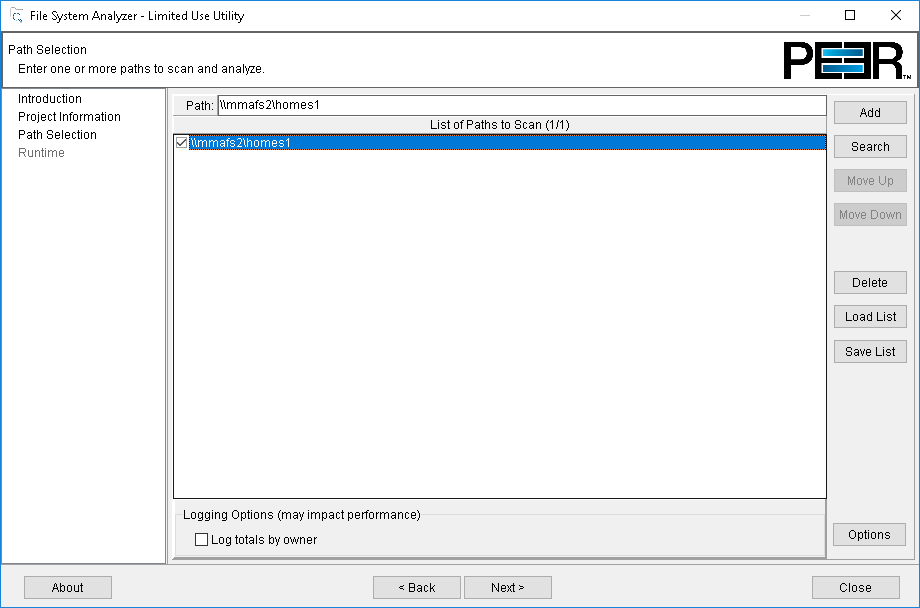
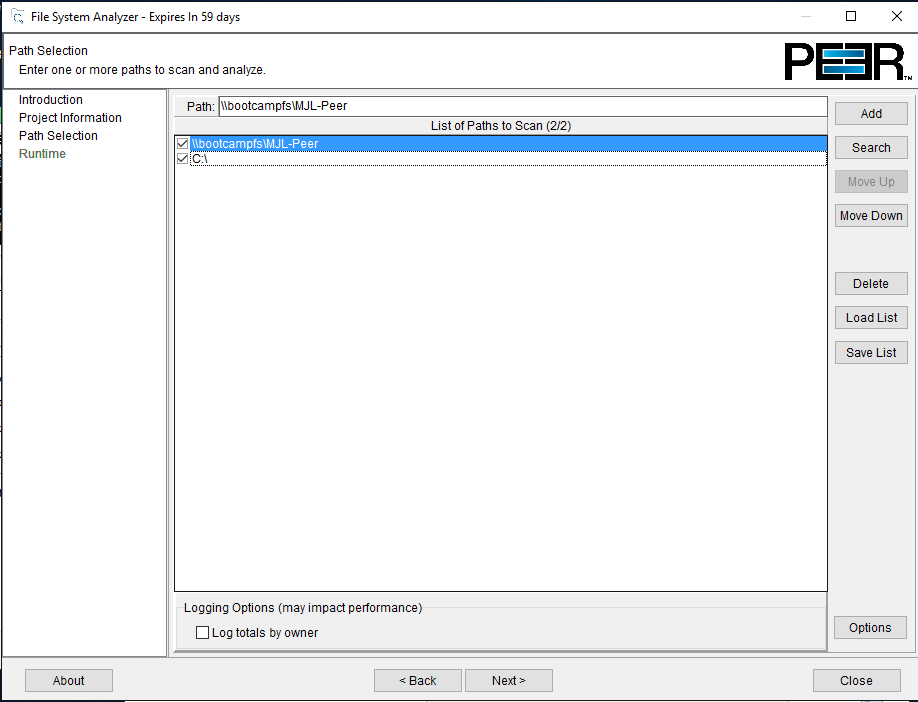
final tune-ups for GTS Americas

Changed region(s): [[0.0, 0.0, 1.0, 1.0]]

diff --git a/peer/peer.rst b/peer/peer.rst
@@ -33,10 +33,19 @@ Key use cases for combining Peer Software with Nutanix include:
 
 Working from left to right, users interact with the SMB shares on the Nutanix Files cluster via a public LAN. When SMB activity occurs on the Files cluster through these shares, the Peer Partner Server (referred to as a Peer Agent) is notified via the File Activity Monitoring API from Files. The Peer Agent accesses the updated content via SMB, and then facilitates the flow of data to one or many remote and/or local file servers.
 
-**In this lab you will configure Peer Global File Service to create an Active-Active file services solution with Nutanix Files.**
+**In this lab you will configure Peer Global File Service to create an Active-Active file services solution with Nutanix Files, replicate content from Nutanix Files to Nutanix Objects, and use our File System Analyzer tool to analyze some sample data.**
+
+When you are done with these three sections, get your lab validated by a member of the Peer Software team. We have a Rocketbook reusable notepad with pen and refresh cloth for you!
+
+.. figure:: images/rocketbook.png
 
 Lab Setup
 +++++++++
+
+   .. note::
+
+    This lab requires the :ref:`windows_tools_vm`.
+    
 
 Files
 .....
@@ -337,10 +346,6 @@ Once a job has been created, it must be started to initiate synchronization and 
 Testing Collaboration
 +++++++++++++++++
 
-   .. note::
-
-    This exercise requires the :ref:`windows_tools_vm`.
-
 The easiest way to verify synchronization is functioning properly is to open separate File Explorer windows for the Nutanix Files and Windows File Server paths.
 
 .. note::
@@ -387,155 +392,6 @@ The easiest way to verify synchronization is functioning properly is to open sep
    .. figure:: images/36.png
 
    **Congratulations!** You have successfully deployed an Active-Active file share replicated across two file servers. Using Peer, this same approach can be leveraged to support file collaboration across sites, migrations from legacy solutions to Nutanix Files, or disaster recovery for use cases such as VDI, where user data and profiles need to be accessible from multiple sites for business continuity.
-
-Analyzing Existing Environments
-++++++++++++++++++++++++++++++++++++++++++
-
-   .. note::
-
-   This exercise requires the :ref:`windows_tools_vm`.
-
-As the capacity of file server environments increase at a record pace, storage admins often do not know how users and applications are leveraging these file server environments. This fact becomes most evident when it is time to migrate to a new storage platform. The File System Analyzer is a tool from Peer Software that is designed to help partners discover and analyze existing file and folder structures for the purpose of planning and optimization.
-
-The File System Analyzer performs a very fast scan of one or more specified paths, uploads results to Amazon S3, assembles key pieces of information into one or more Excel workbooks, and emails reports with links to access the workbooks.
-
-As this tool is primarily for our partners, we would love to hear any feedback you have on it. Reach out to us on Slack via the **#_peer_software_ext** channel with comments and suggestions.
-
-Installing and Running the File System Analyzer
-............
-
-#. Connect to your *Initials*\ **-Windows-ToolsVM** via RDP using the following credentials:
-
-   - **Username** - NTNXLAB\\Administrator
-   - **Password** - nutanix/4u
-
-#. Within the VM, download the File System Analyzer installer: https://www.peersoftware.com/downloads/fsa/13/FileSystemAnalyzer_win64.exe
-
-#. Run the installer and select **Immediate Installation**.
-
-   .. figure:: images/fsa1.png
-
-   Once the installation is complete, the File System Analyzer wizard is automatically launched.
-
-#. The **Introduction** screen provides details on information collected and reported by the utility. Click **Next**.
-
-   .. figure:: images/fsa2.png
-
-#. The **Contact Information** screen collects information used to organize the output of the File System Analyzer and to send the final reports. Fill out the following fields:
-
-   - **Company** – Enter your company name.
-   - **Location** – Enter the physical location of the server that is running the File System Analyzer. In multi-site environments, this could be a city or state name. A data center name also works.
-   - **Project** – Enter a project name or business reason for running this analysis. This (and the Company and Location fields) are used solely to organize the final reports.
-   - **Mode** – Select the mode of operation to be used – **General Analysis** or **Migration Preparation**. **Migration Preparation** is useful when preparing for a migration project between storage systems. In addition to collecting standard telemetry on file systems, this mode also offers the option to test performance of both the existing and new storage systems to help gauge potential migration performance and timing. For this lab, we will use **General Analysis**.
-   - **Name/Phone/Title** – *(Optional)* Enter your name and contact information.
-   - **Email** – Enter the email address to which the final reports will be sent. For multiple addresses, enter a comma-separated list.
-   - **Upload Region** – Select **US**, **EU**, or **APAC** to tell the File System Analyzer which S3 location to use for uploading the final reports.
-
-   .. raw:: html
-
-     <strong><font color="red">Be sure to enter your own details into the wizard page shown below. Otherwise, the final report will not be sent to you.</font></strong>
-
-   .. figure:: images/fsa3.png
-
-#. Click **Next**.
-
-   The File System Analyzer can be configured to scan one or more paths. These paths can be local (e.g., ``D:\MyData``) or a remote UNC Path (e.g., ``\\files01\homes1``).
-
-#. Add the following paths:
-
-   - ``C:\`` - The local C: drive of *Initials*\ **-Windows-ToolsVM**
-   - ``\\BootcampFS\<Your Share Name>\`` - A share previously created on Nutanix Files
-
-   .. figure:: images/fsa4.png
-
-     Click the **Search** button and enter the name of a file server if you wish to discover the available shares on that file server. You can also right-click within the dialog and select **Check All** to automatically add all discovered shares.
-
-   .. figure:: images/fsa4a.png
-
-     Selecting the **Log totals by owner** option will poke every file and folder within the selected scan path(s) for its owner. This owner information will be tallied by bytes, files, and folders and included in the final report.
-
-#. Click **Next**.
-
-   Click the **Start** button to begin scanning the entered paths. When all scans, analyses, and uploads are complete, you will see a status that is similar to the following:
-
-   .. figure:: images/fsa5.png
-
-#. File System Analyzer will also email the report to all configured addresses. To view the full report, click the hyperlink(s) listed under **Detailed Reports** in the email. If multiple paths were scanned, you will also see a link to a cumulative report across all paths.
-
-   .. figure:: images/fsa6.png
-
-   .. note::
-
-     Report download links are active for **24 hours** only. Contact Peer Software to access any expired reports.
-
-   Some systems may open these workbooks in a protected mode, displaying this message in Excel:
-
-   .. figure:: images/fsa8.png
-
-   If you see this message at the top of Excel, click **Enable Editing** to fully open the workbook. If you do not do this, the pivot tables and charts will not load properly.
-
-Summary Reports
-............
-Summary reports contain overall statistical and historical information across all paths that have been selected to be scanned.  When you open a summary report, you are greeted with a worksheet like this:
-
-   .. figure:: images/fsa7.png
-
-   Each summary report may contain some or all of the following worksheets:
-
-   - **InfoSheet** – Details about this specific run. This page will also show Total Bytes formatted in both decimal (1 KB is 1,000 bytes) and binary (1 KiB is 1,024 bytes) forms.
-   - **CollectiveResults** – A list of all paths scanned along with high-level statistics for each.
-   - **History-Bytes** – Contains historical changes in bytes for each time each path is scanned.
-   - **History-Files** – Contains historical changes in total number of files for each time each path is scanned.
-   - **History-Folders** – Contains historical changes in total numbers of folders for each time each path is scanned.
-   
-    .. note::
-
-     History worksheets will only appear after running multiple scans.
-
-Volume Reports
-............
-Volume reports give more detailed information about a specific path that has been scanned. When you open a volume report, you are greeted with a worksheet like this:
-
-   .. figure:: images/fsa7a.png
-
-   Each volume report may contain some or all of the following worksheets:
-
-   - **Overview** – A series of pivot tables and charts showing high-level statistics about the path that was scanned.
-   - **InfoSheet** – Details about this specific scan. This page will also show Total Bytes formatted in both decimal (1 KB is 1,000 bytes) and binary (1 KiB is 1,024 bytes) forms.
-   - **OverallStats** – Overall statistics for the folder that was scanned. This includes total bytes, files, folders, etc.
-   - **Analysis** – Includes a pivot table and a pair of charts highlighting additional statistics about the path that was scanned.
-   - **History** – Shows statistics from each scan of this volume.
-   - **HistoryCharts** – Contains charts showing historical changes in files, folders, and bytes for this volume.
-   - **HighSubFolderCounts** – A list of all folders containing more than 100 child directories.
-   - **HighByteCounts** – A list of all folders containing more than 10GB of child file data.
-   - **HighFileCounts** – A list of all folders containing more than 10,000 child files.
-   - **LargeFiles** – A list of all discovered files that are 10GB or larger.
-   - **DeepPaths** – A list of all discovered folder paths that are 15 levels deep or deeper.
-   - **LongPaths** – A list of all discovered folder paths that are 256 characters or longer.
-   - **ReparsePointsSummary** – A summary of all reparse points discovered, regardless of file or folder.
-   - **ReparsePoints** – A list of all folder reparse points discovered.
-   - **TimeAnalysis** – A breakdown of total files, folders, and bytes by age.
-   - **LastModifiedAnalysis** – A view of all files, folders, and bytes modified each hour for the past year. These numbers are then totaled and averaged to show files, folders, and bytes modified by: day of week; month; hour of the day; day of month; and day of year.
-   - **CreatedAnalysis** – A view of all files, folders, and bytes created each hour for the past year. These numbers are then totaled and averaged to show files, folders, and bytes created by day of week, month, hour of the day, day of month, and day of year.
-   - **LastAccessedAnalysis** – A view of all files, folders, and bytes accessed each hour for the past year. These numbers are then totaled and averaged to show files, folders, and bytes accessed by: day of week; month; hour of the day; day of month; and day of year.
-   - **TLDAnalysis** - A list of each folder immediately under a specified path with statistics for each of these subfolders. In a user home directory environment, each of these subfolders should represent a different user.
-   - **TopTLDsByTotals** – A series of pivot tables and charts showing the top ten top-level directories based on total bytes used, total files, and total folders.
-   - **TopTLDsByLastModBytes** – A pivot table and chart showing top 10 top-level directories based on most bytes modified in the past year.
-   - **TopTLDsByLastModFiles** – A pivot table and chart showing top 10 top-level directories based on most files modified in the past year.
-   - **LegacyTLDs** – A list of all top-level directories that do not contain any files modified in the past 365 days.
-   - **TreeDepth** – A tally of bytes, folders, and files found at each depth level of the folder structure. For customers doing a pre-migration analysis, depths that appear as green are good candidates for PeerSync Migration’s tree depth setting.
-   - **FileExtInfo** – A list of all discovered extensions, including pivot tables sorted by total bytes and total files.
-   - **FileAttributes** – A summary of all file and folder attributes found.
-   - **SmallFileAnalysis** – A list of all files discovered below a certain size. This page is useful for estimating the storage impact of small files on storage platforms that have large minimum file sizes on disk.
-   - **SIDCache** – A list of all the owners and SID strings that have been discovered.
-   
-    .. note::
-
-     History worksheets will only appear after running multiple scans.
-
-Here is a sample of the **LastModifiedAnalysis** page mentioned above:
-
-   .. figure:: images/fsa7b.png
 
 Working with Nutanix Objects
 ++++++++++++++
@@ -767,7 +623,159 @@ The easiest way to verify that files have been replicated into Nutanix Objects i
 #. Navigate to the appropriate bucket set above and verify that it contains content.
 
    .. figure:: images/cloud19.png
+   
+   **Congratulations!** You have successfully setup replication between Nutanix Files and Nutanix Objects! Using Peer, this same approach can be leveraged to support scenarios including coexistence of file data with object-based apps and services as well as point-in-time recovery of enterprise NAS data backed by Objects.
 
+Analyzing Existing Environments
+++++++++++++++++++++++++++++++++++++++++++
+
+   .. note::
+
+   This exercise requires the :ref:`windows_tools_vm`.
+
+As the capacity of file server environments increase at a record pace, storage admins often do not know how users and applications are leveraging these file server environments. This fact becomes most evident when it is time to migrate to a new storage platform. The File System Analyzer is a tool from Peer Software that is designed to help partners discover and analyze existing file and folder structures for the purpose of planning and optimization.
+
+The File System Analyzer performs a very fast scan of one or more specified paths, uploads results to Amazon S3, assembles key pieces of information into one or more Excel workbooks, and emails reports with links to access the workbooks.
+
+As this tool is primarily for our partners, we would love to hear any feedback you have on it. Reach out to us on Slack via the **#_peer_software_ext** channel with comments and suggestions.
+
+Installing and Running the File System Analyzer
+............
+
+#. Connect to your *Initials*\ **-Windows-ToolsVM** via RDP using the following credentials:
+
+   - **Username** - NTNXLAB\\Administrator
+   - **Password** - nutanix/4u
+
+#. Within the VM, download the File System Analyzer installer: https://www.peersoftware.com/downloads/fsa/13/FileSystemAnalyzer_win64.exe
+
+#. Run the installer and select **Immediate Installation**.
+
+   .. figure:: images/fsa1.png
+
+   Once the installation is complete, the File System Analyzer wizard is automatically launched.
+
+#. The **Introduction** screen provides details on information collected and reported by the utility. Click **Next**.
+
+   .. figure:: images/fsa2.png
+
+#. The **Contact Information** screen collects information used to organize the output of the File System Analyzer and to send the final reports. Fill out the following fields:
+
+   - **Company** – Enter your company name.
+   - **Location** – Enter the physical location of the server that is running the File System Analyzer. In multi-site environments, this could be a city or state name. A data center name also works.
+   - **Project** – Enter a project name or business reason for running this analysis. This (and the Company and Location fields) are used solely to organize the final reports.
+   - **Mode** – Select the mode of operation to be used – **General Analysis** or **Migration Preparation**. **Migration Preparation** is useful when preparing for a migration project between storage systems. In addition to collecting standard telemetry on file systems, this mode also offers the option to test performance of both the existing and new storage systems to help gauge potential migration performance and timing. For this lab, we will use **General Analysis**.
+   - **Name/Phone/Title** – *(Optional)* Enter your name and contact information.
+   - **Email** – Enter the email address to which the final reports will be sent. For multiple addresses, enter a comma-separated list.
+   - **Upload Region** – Select **US**, **EU**, or **APAC** to tell the File System Analyzer which S3 location to use for uploading the final reports.
+
+   .. raw:: html
+
+     <strong><font color="red">Be sure to enter your own details into the wizard page shown below. Otherwise, the final report will not be sent to you.</font></strong>
+
+   .. figure:: images/fsa3.png
+
+#. Click **Next**.
+
+   The File System Analyzer can be configured to scan one or more paths. These paths can be local (e.g., ``D:\MyData``) or a remote UNC Path (e.g., ``\\files01\homes1``).
+
+#. Add the following paths:
+
+   - ``C:\`` - The local C: drive of *Initials*\ **-Windows-ToolsVM**
+   - ``\\BootcampFS\<Your Share Name>\`` - A share previously created on Nutanix Files
+
+   .. figure:: images/fsa4.png
+
+     Click the **Search** button and enter the name of a file server if you wish to discover the available shares on that file server. You can also right-click within the dialog and select **Check All** to automatically add all discovered shares.
+
+   .. figure:: images/fsa4a.png
+
+     Selecting the **Log totals by owner** option will poke every file and folder within the selected scan path(s) for its owner. This owner information will be tallied by bytes, files, and folders and included in the final report.
+
+#. Click **Next**.
+
+   Click the **Start** button to begin scanning the entered paths. When all scans, analyses, and uploads are complete, you will see a status that is similar to the following:
+
+   .. figure:: images/fsa5.png
+
+#. File System Analyzer will also email the report to all configured addresses. To view the full report, click the hyperlink(s) listed under **Detailed Reports** in the email. If multiple paths were scanned, you will also see a link to a cumulative report across all paths.
+
+   .. figure:: images/fsa6.png
+
+   .. note::
+
+     Report download links are active for **24 hours** only. Contact Peer Software to access any expired reports.
+
+   Some systems may open these workbooks in a protected mode, displaying this message in Excel:
+
+   .. figure:: images/fsa8.png
+
+   If you see this message at the top of Excel, click **Enable Editing** to fully open the workbook. If you do not do this, the pivot tables and charts will not load properly.
+
+Summary Reports
+............
+Summary reports contain overall statistical and historical information across all paths that have been selected to be scanned.  When you open a summary report, you are greeted with a worksheet like this:
+
+   .. figure:: images/fsa7.png
+
+   Each summary report may contain some or all of the following worksheets:
+
+   - **InfoSheet** – Details about this specific run. This page will also show Total Bytes formatted in both decimal (1 KB is 1,000 bytes) and binary (1 KiB is 1,024 bytes) forms.
+   - **CollectiveResults** – A list of all paths scanned along with high-level statistics for each.
+   - **History-Bytes** – Contains historical changes in bytes for each time each path is scanned.
+   - **History-Files** – Contains historical changes in total number of files for each time each path is scanned.
+   - **History-Folders** – Contains historical changes in total numbers of folders for each time each path is scanned.
+   
+    .. note::
+
+     History worksheets will only appear after running multiple scans.
+
+Volume Reports
+............
+Volume reports give more detailed information about a specific path that has been scanned. When you open a volume report, you are greeted with a worksheet like this:
+
+   .. figure:: images/fsa7a.png
+
+   Each volume report may contain some or all of the following worksheets:
+
+   - **Overview** – A series of pivot tables and charts showing high-level statistics about the path that was scanned.
+   - **InfoSheet** – Details about this specific scan. This page will also show Total Bytes formatted in both decimal (1 KB is 1,000 bytes) and binary (1 KiB is 1,024 bytes) forms.
+   - **OverallStats** – Overall statistics for the folder that was scanned. This includes total bytes, files, folders, etc.
+   - **Analysis** – Includes a pivot table and a pair of charts highlighting additional statistics about the path that was scanned.
+   - **History** – Shows statistics from each scan of this volume.
+   - **HistoryCharts** – Contains charts showing historical changes in files, folders, and bytes for this volume.
+   - **HighSubFolderCounts** – A list of all folders containing more than 100 child directories.
+   - **HighByteCounts** – A list of all folders containing more than 10GB of child file data.
+   - **HighFileCounts** – A list of all folders containing more than 10,000 child files.
+   - **LargeFiles** – A list of all discovered files that are 10GB or larger.
+   - **DeepPaths** – A list of all discovered folder paths that are 15 levels deep or deeper.
+   - **LongPaths** – A list of all discovered folder paths that are 256 characters or longer.
+   - **ReparsePointsSummary** – A summary of all reparse points discovered, regardless of file or folder.
+   - **ReparsePoints** – A list of all folder reparse points discovered.
+   - **TimeAnalysis** – A breakdown of total files, folders, and bytes by age.
+   - **LastModifiedAnalysis** – A view of all files, folders, and bytes modified each hour for the past year. These numbers are then totaled and averaged to show files, folders, and bytes modified by: day of week; month; hour of the day; day of month; and day of year.
+   - **CreatedAnalysis** – A view of all files, folders, and bytes created each hour for the past year. These numbers are then totaled and averaged to show files, folders, and bytes created by day of week, month, hour of the day, day of month, and day of year.
+   - **LastAccessedAnalysis** – A view of all files, folders, and bytes accessed each hour for the past year. These numbers are then totaled and averaged to show files, folders, and bytes accessed by: day of week; month; hour of the day; day of month; and day of year.
+   - **TLDAnalysis** - A list of each folder immediately under a specified path with statistics for each of these subfolders. In a user home directory environment, each of these subfolders should represent a different user.
+   - **TopTLDsByTotals** – A series of pivot tables and charts showing the top ten top-level directories based on total bytes used, total files, and total folders.
+   - **TopTLDsByLastModBytes** – A pivot table and chart showing top 10 top-level directories based on most bytes modified in the past year.
+   - **TopTLDsByLastModFiles** – A pivot table and chart showing top 10 top-level directories based on most files modified in the past year.
+   - **LegacyTLDs** – A list of all top-level directories that do not contain any files modified in the past 365 days.
+   - **TreeDepth** – A tally of bytes, folders, and files found at each depth level of the folder structure. For customers doing a pre-migration analysis, depths that appear as green are good candidates for PeerSync Migration’s tree depth setting.
+   - **FileExtInfo** – A list of all discovered extensions, including pivot tables sorted by total bytes and total files.
+   - **FileAttributes** – A summary of all file and folder attributes found.
+   - **SmallFileAnalysis** – A list of all files discovered below a certain size. This page is useful for estimating the storage impact of small files on storage platforms that have large minimum file sizes on disk.
+   - **SIDCache** – A list of all the owners and SID strings that have been discovered.
+   
+    .. note::
+
+     History worksheets will only appear after running multiple scans.
+
+Here is a sample of the **LastModifiedAnalysis** page mentioned above:
+
+   .. figure:: images/fsa7b.png
+   
+   **Congratulations!** You have completed the Peer Global File Service lab! Get your lab validated by a member of the Peer Software team. We have a Rocketbook reusable notepad with pen and refresh cloth for you!
 
 Integrating with Microsoft DFS Namespace
 ++++++++++++++++++++++++++++++++++++++++
